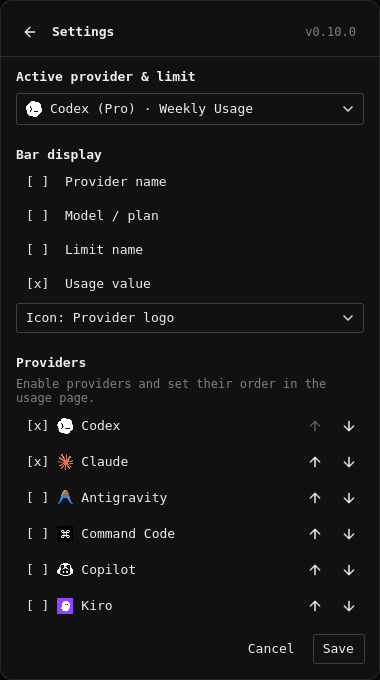
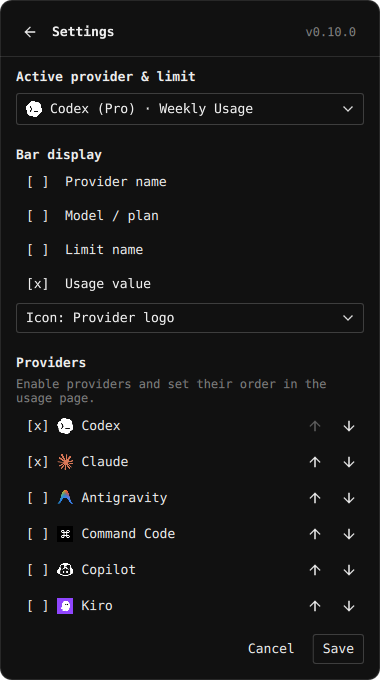
docs: refresh transparent Quickshell panel previews

diff --git a/docs/screenshots/README.md b/docs/screenshots/README.md
@@ -9,17 +9,19 @@ capture is retained from the original README.
   under an offscreen renderer, with the Windows settings option enabled.
 - `omarchy-usage.png`, `omarchy-settings.png` and `reset-credits.png` use the
   production QML pages with the existing test daemon and dark Omarchy theme
-  fixtures from `packages/lib/tests/qml/`.
+  fixtures from `packages/lib/tests/qml/`. The panel items are captured with Qt
+  Quick's OpenGL renderer in a transparent window, preserving transparency
+  outside their rounded corners.
 - `macos-usage.png` uses the production SwiftUI/AppKit view rendered by the
   native smoke test on `macos-14`, with the same sample usage and reset credits.
   The PNG is unchanged from the `macos-panel-preview` artifact in the
-  [successful native CI run](https://github.com/gelzinn/ai-status/actions/runs/38151285761/job/114505105012)
-  for commit `9de69022ab74fccc3b2022fe09c53089ef466e4b`.
+  [successful native CI run](https://github.com/gelzinn/ai-status/actions/runs/38153142733/job/114510559665)
+  for commit `38b129698917394fef0a99bc917abc64bab2133d`.
 
 All three interfaces read the same bundled `assets/panel-icons.json` geometry for
 refresh, settings and navigation arrows. Header controls have transparent idle
-backgrounds, hover fills and keyboard focus outlines. The README captures show
-the controls without hover or focus.
+backgrounds and show a fill only on hover. A focus outline appears when
+navigating with Tab; mouse clicks and programmatic focus do not add a border.
 
 `waybar-tooltip.png` is the unchanged public screenshot previously hosted at
 `https://github.com/user-attachments/assets/dcba0b97-d462-452e-b1b6-000cc445b803`.
